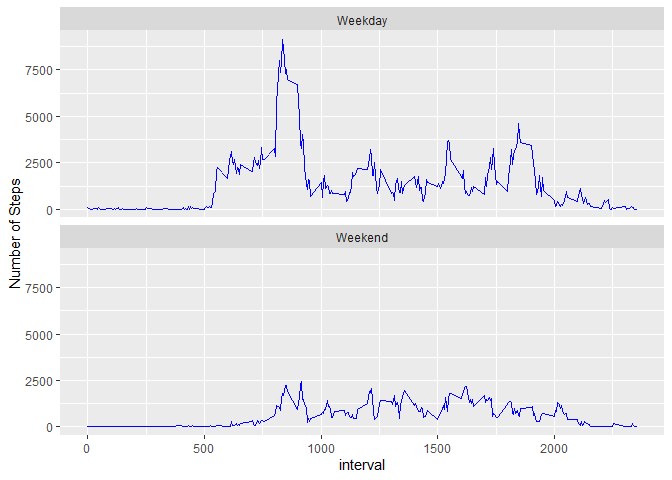
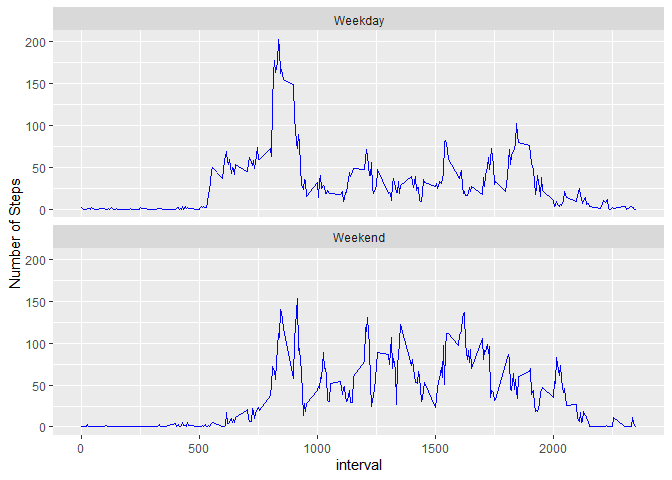
update laste question to mean instead of SUM

diff --git a/PA1_gmvitz.html b/PA1_gmvitz.html
@@ -574,12 +574,12 @@ drm_na_sum &lt;- drm_na %&gt;% group_by(date) %&gt;%
     mutate(day = weekdays(date),
            type_of_day = if_else(day %in% c(&quot;Sunday&quot;, &quot;Saturday&quot;), &quot;Weekend&quot;, &quot;Weekday&quot;)) %&gt;% 
     group_by(interval, type_of_day) %&gt;% 
-    summarise(`Number of Steps` = sum(steps))</code></pre>
+    summarise(`Number of Steps` = mean(steps))</code></pre>
 <pre><code>## `summarise()` has grouped output by &#39;interval&#39;. You can override using the `.groups` argument.</code></pre>
 <pre class="r"><code>plot_data %&gt;% ggplot(aes(interval, `Number of Steps`)) +
     geom_line(color = &quot;blue&quot;) +
     facet_wrap(~type_of_day, ncol = 1)</code></pre>
[2 lines of base64/hex data omitted]
 </div>
 
 

diff --git a/PA1_gmvitz.md b/PA1_gmvitz.md
@@ -224,7 +224,7 @@ plot_data <- drm_na %>%
     mutate(day = weekdays(date),
            type_of_day = if_else(day %in% c("Sunday", "Saturday"), "Weekend", "Weekday")) %>% 
     group_by(interval, type_of_day) %>% 
-    summarise(`Number of Steps` = sum(steps))
+    summarise(`Number of Steps` = mean(steps))
 ```
 
 ```
